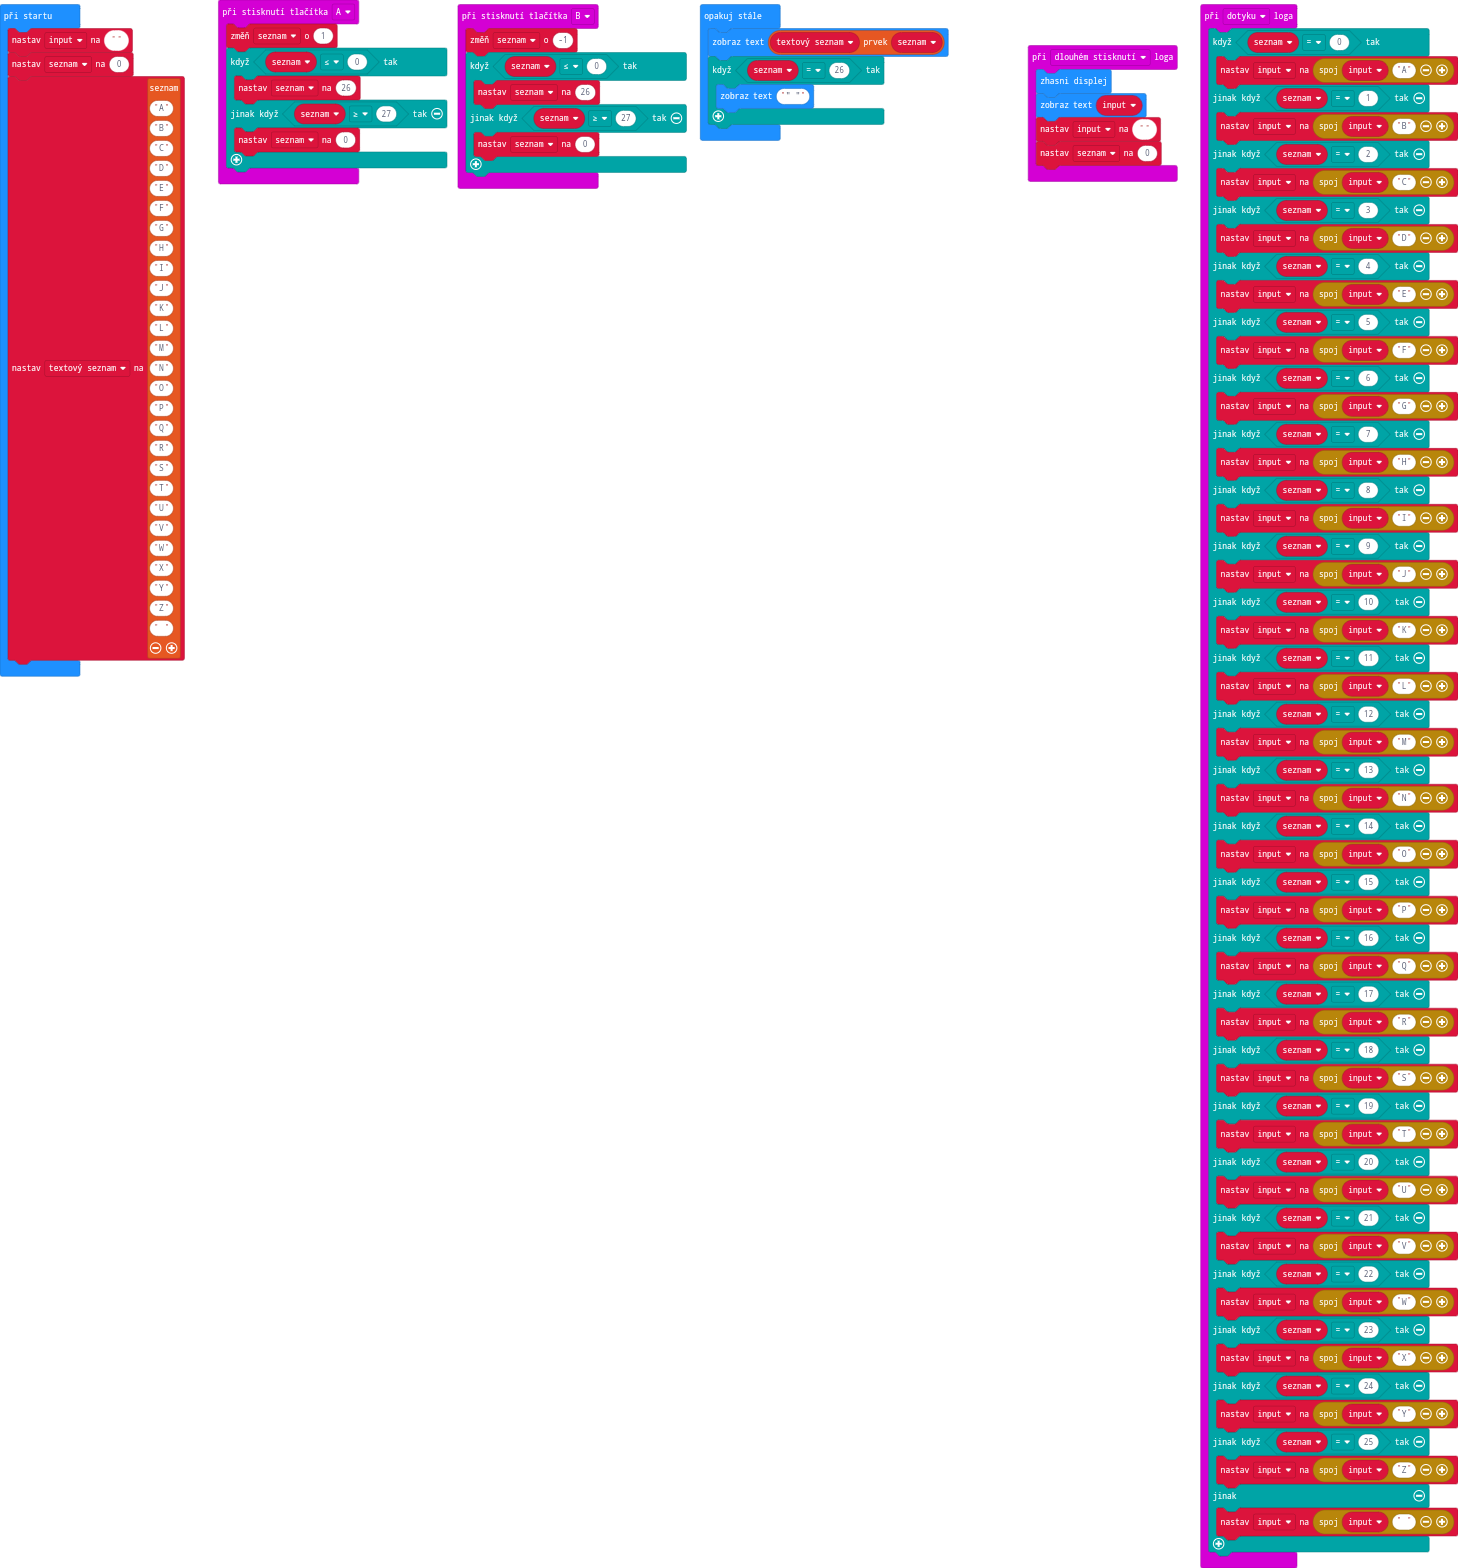
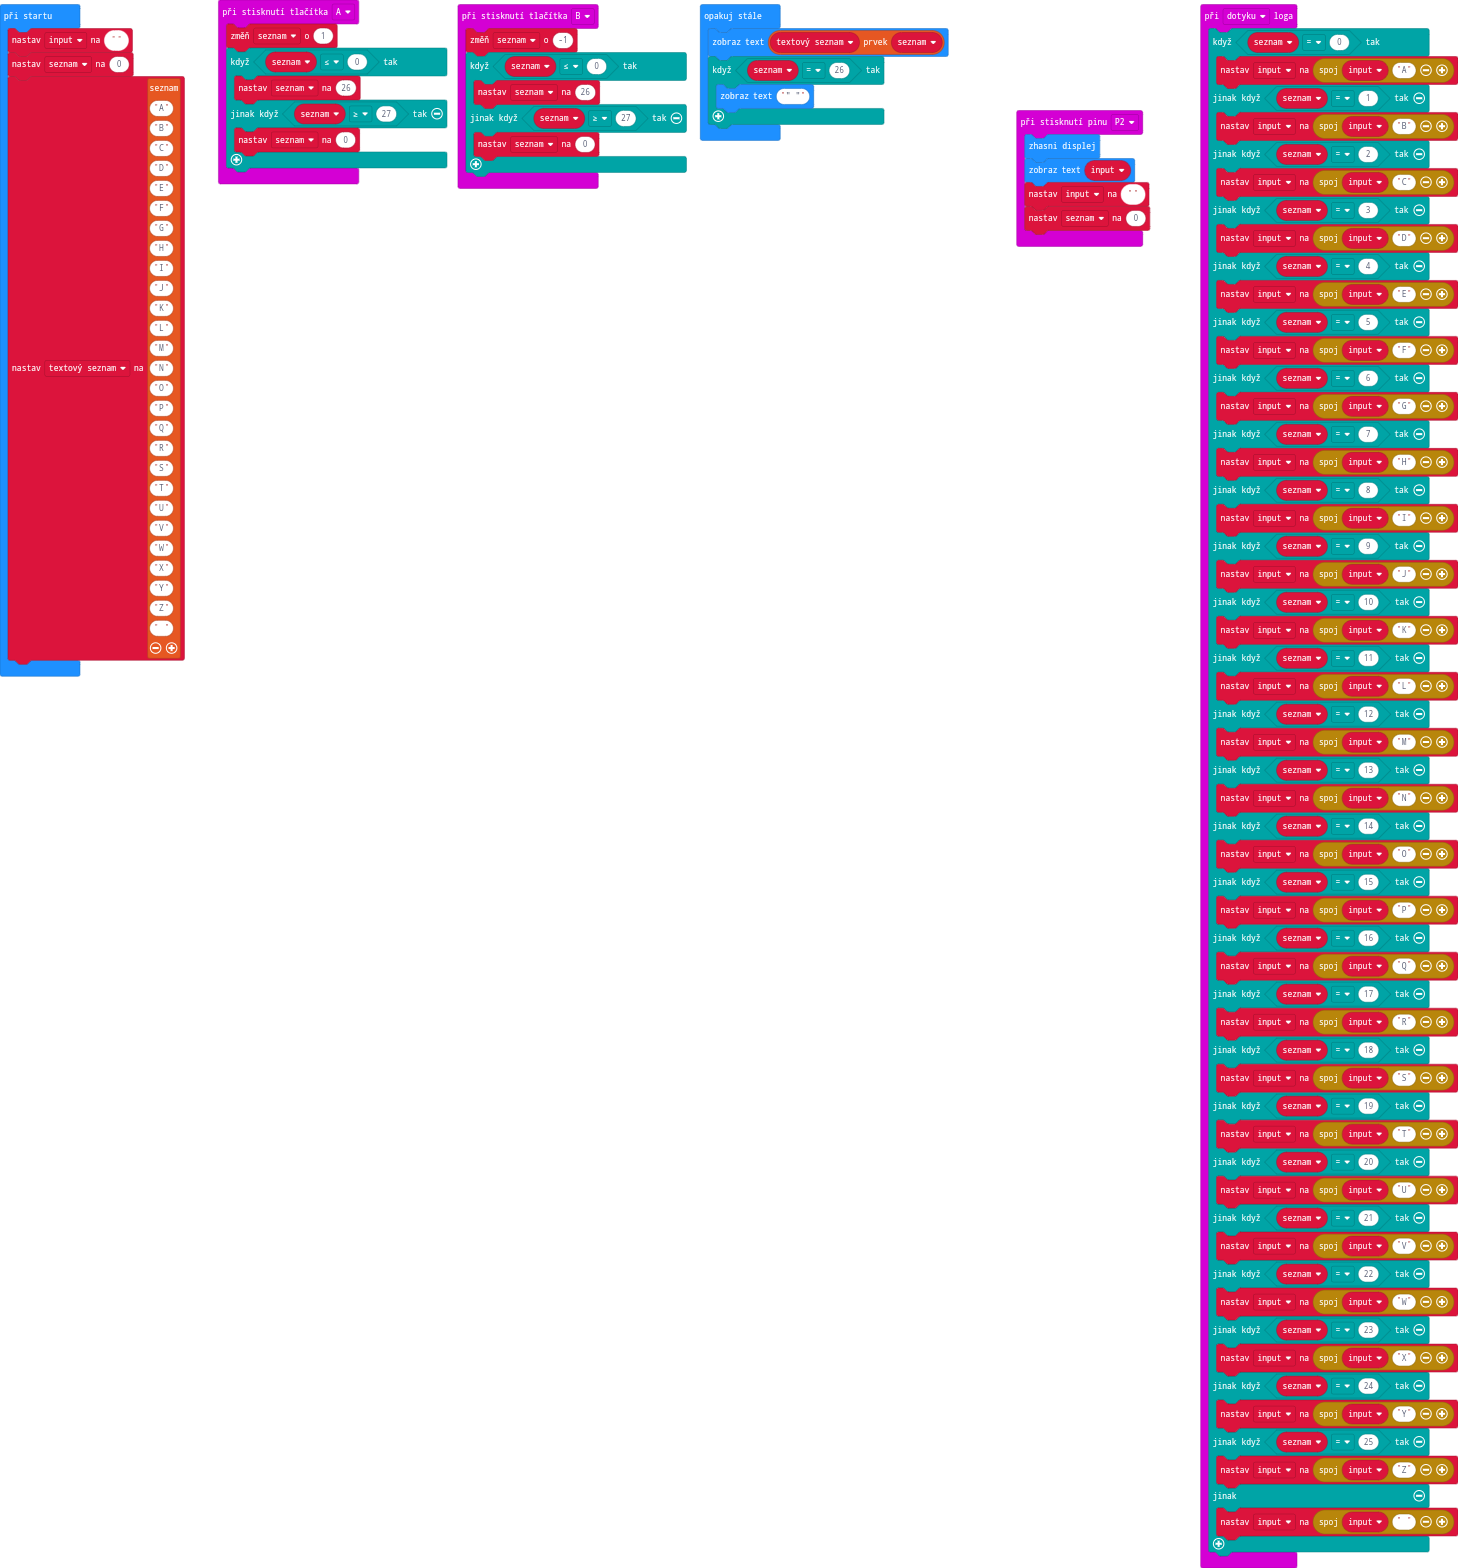
Aktualizovat main.blocks, main.ts

Changed region(s): [[0.679, 0.0312, 0.8025, 0.1562]]

diff --git a/main.ts b/main.ts
@@ -63,7 +63,7 @@ input.onLogoEvent(TouchButtonEvent.Touched, function () {
         input2 = "" + input2 + " "
     }
 })
-input.onLogoEvent(TouchButtonEvent.LongPressed, function () {
+input.onPinPressed(TouchPin.P2, function () {
     basic.clearScreen()
     basic.showString(input2)
     input2 = ""
